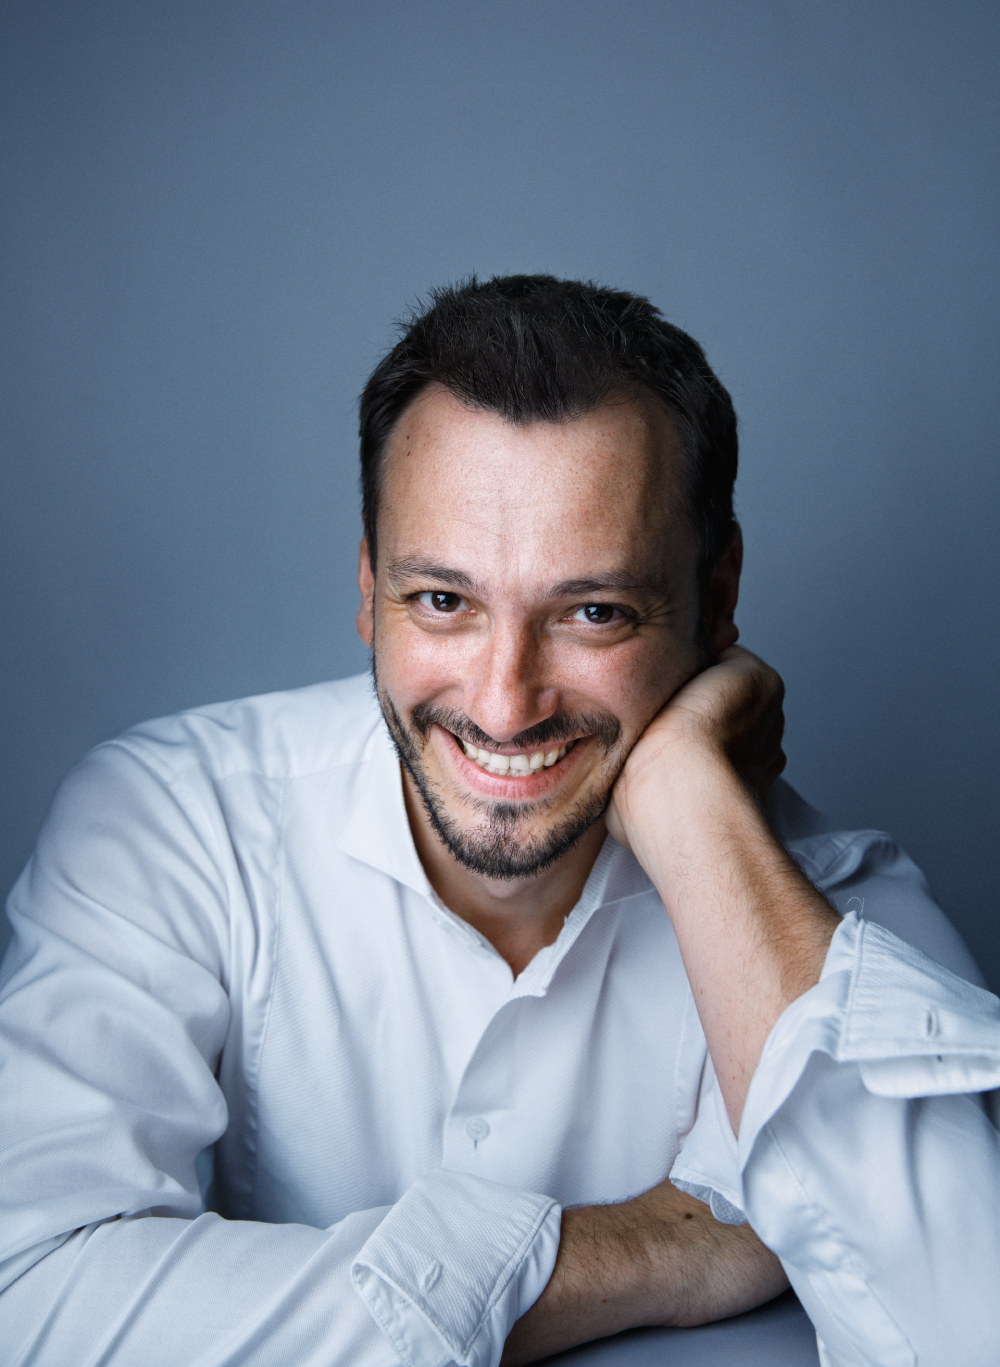
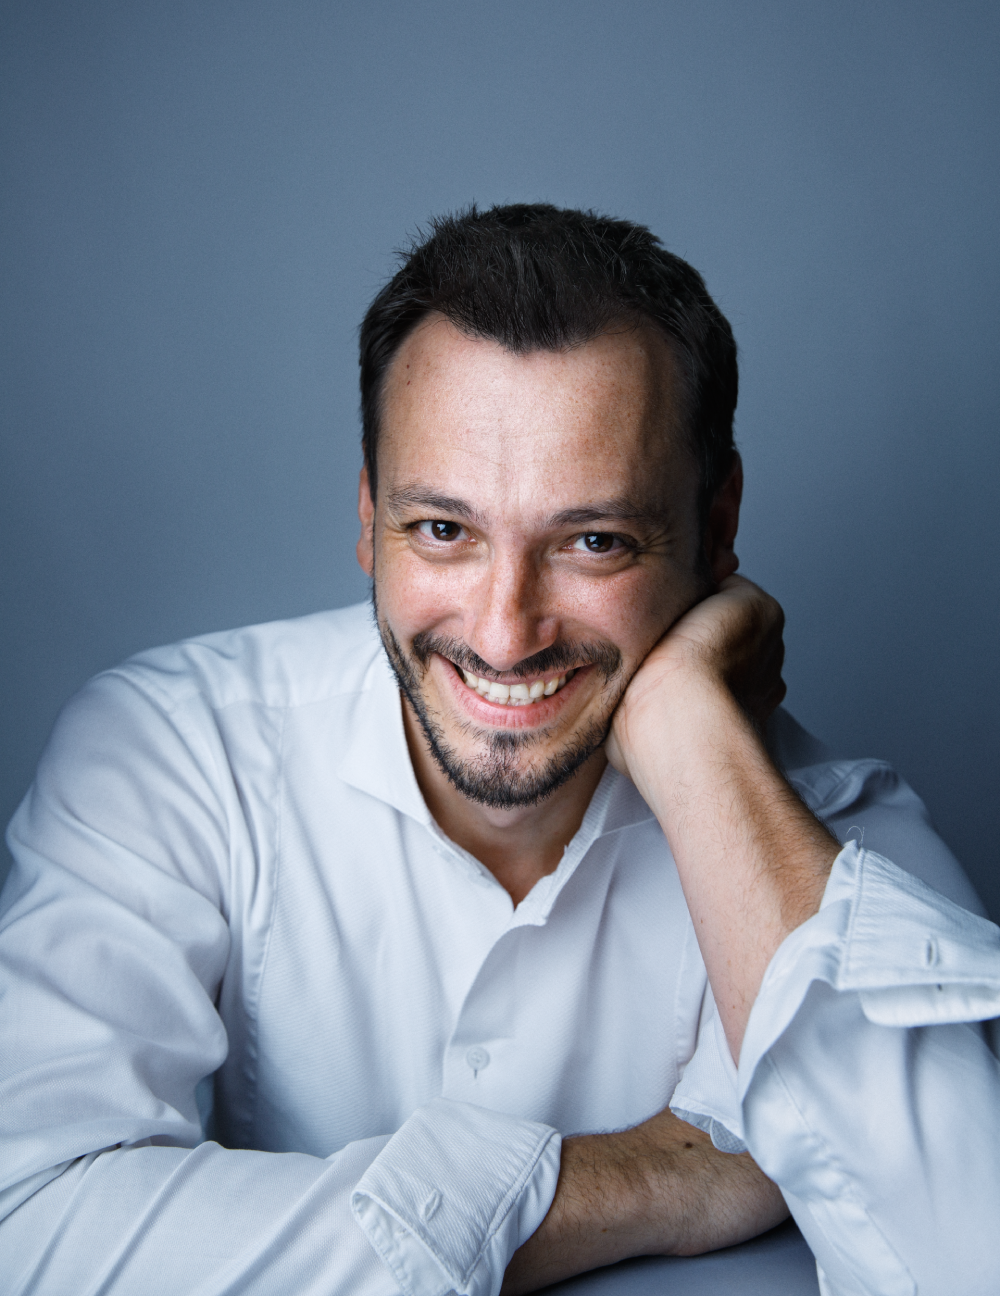
fixed layout and image positioning

diff --git a/pages/index.tsx b/pages/index.tsx
@@ -34,7 +34,7 @@ export default function Home() {
             transition={{ duration: 1 }}
             className={`${inter.className} relative top-0 min-h-[calc(100vh-123px)] overflow-hidden text-black md:text-white`}
         >
-            <div className="pointer-events-none fixed inset-0 -z-10">
+            <div className="pointer-events-none fixed inset-0 z-0">
                 <div
                     aria-hidden="true"
                     className="absolute inset-0 bg-[url('/homemr.png')] md:bg-[url('/homemrlg.png')] bg-cover bg-center bg-no-repeat shadow-md shadow-[#4b6279]"
@@ -51,20 +51,20 @@ export default function Home() {
             <div className="relative z-10 mx-auto flex h-full max-w-6xl flex-col justify-start gap-10">
                 <div className="mt-[350px] flex flex-col items-start justify-around gap-8 md:gap-80 md:mt-6 md:flex-row lg:mt-0">
                     <motion.div
-                        initial={{ opacity: 0, y: 16 }}
-                        animate={{ opacity: 1, y: 0 }}
-                        transition={{ duration: 1.2, delay: 0.2 }}
+                        // initial={{ opacity: 0, y: 16 }}
+                        // animate={{ opacity: 1, y: 0 }}
+                        // transition={{ duration: 1.2, delay: 0.2 }}
                         className="space-y-7 md:w-[55%]"
                     >
                         <div className="relative overflow-hidden rounded-3xl shadow-xl backdrop-blur-xl p-2 m-2">
                             <div className="absolute inset-0" />
-                            <div className="relative space-y-3">
+                            <div className="relative space-y-2">
                                 <h1
-                                    className={`${playfair.className} text-3xl leading-tight drop-shadow-[0_20px_70px_rgba(255,255,255,0.6)] md:text-5xl`}
+                                    className={`${playfair.className} text-2xl leading-tight drop-shadow-[0_20px_70px_rgba(255,255,255,0.6)] md:text-5xl`}
                                 >
                                     Maxim Rysanov
                                 </h1>
-                                <p className="max-w-2xl text-base leading-relaxed md:text-lg">
+                                <p className="max-w-2xl text-base leading-relaxed md:text-md">
                                     Grammy-nominated Ukrainian-British violist
                                     and conductor whose vivid colors and
                                     charismatic energy light up concert halls

diff --git a/components/Layout.tsx b/components/Layout.tsx
@@ -1,5 +1,4 @@
 import Head from "next/head";
-import { useRouter } from "next/router";
 import Header from "./Header";
 import Footer from "./Footer";
 import RouteLoadingBar from "./RouteLoadingBar";
@@ -9,9 +8,6 @@ interface LayoutProps {
 }
 
 export default function Layout({ children }: LayoutProps) {
-    const router = useRouter();
-    const isHome = router.pathname === "/";
-
     return (
         <>
             <Head>
@@ -37,11 +33,7 @@ export default function Layout({ children }: LayoutProps) {
                 </div>
 
                 {/* Scrollable main content, with padding to account for fixed header/footer */}
-                <main
-                    className={`overflow-auto border-8 border-white ${
-                        isHome ? "bg-transparent" : "bg-[#F2F2F2]"
-                    }`}
-                >
+                <main className="overflow-auto border-8 border-white bg-[#F2F2F2]">
                     {children}
                 </main>
 
